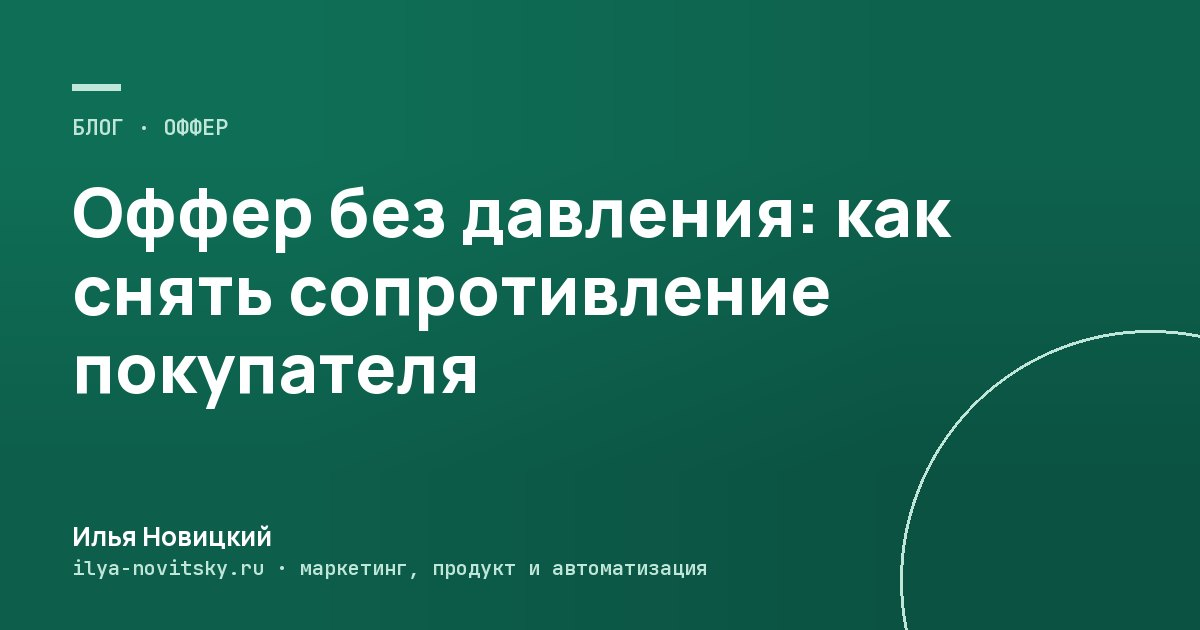
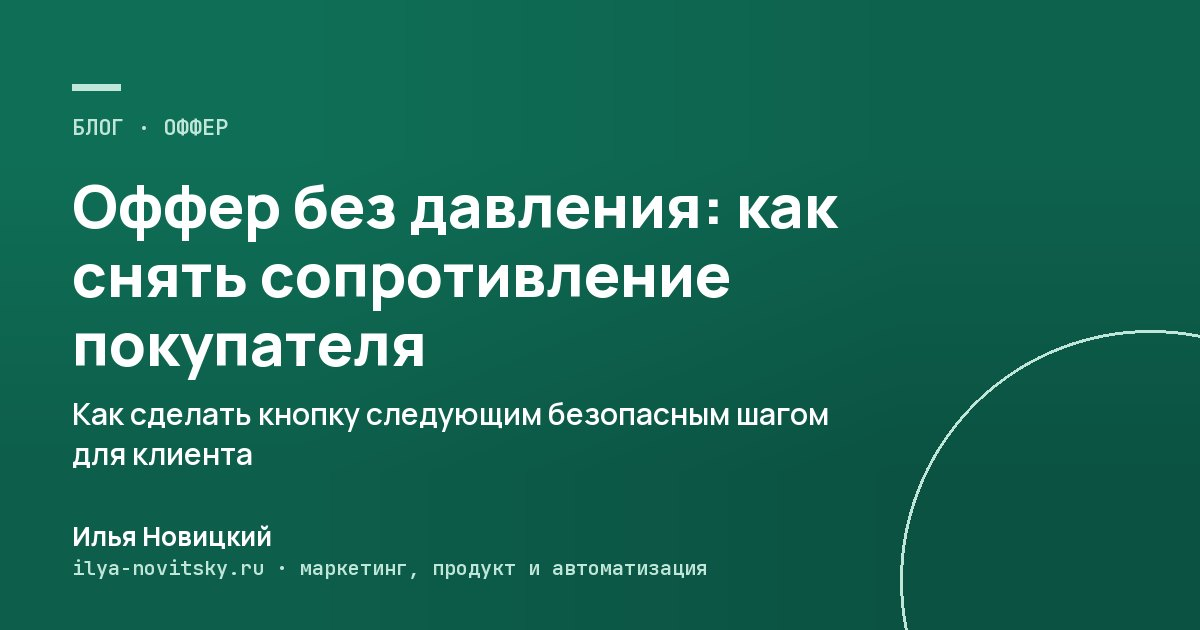
Превью: подзаголовок на каждой картинке (content/og.json), ₽ фирменным шрифтом на сайте, в книге и превью; лента первого экрана с реальными цифрами (1 001 комментарий, 631 сделка, 46 страниц, 17 млн ₽)

Changed region(s): [[0.0617, 0.2714, 0.8017, 0.754]]

diff --git a/content/pages/home.ts b/content/pages/home.ts
@@ -20,21 +20,21 @@ export const home = typo({
 		promise: "Быстрее · Дешевле · Под одну ответственность",
 		under: `Тест-драйв: ${T.price} · ${T.term} · разбор остаётся у вас`,
 		feed: {
-			label: "Пример пути: от задачи до продаж",
-			bar: "от задачи до продаж · пример пути",
+			label: "Путь от задачи до продаж на моих проектах",
+			bar: "от задачи до продаж · на моих проектах",
 			live: "результат",
 			run: "в работе",
 			done: "готово",
 			resultDone: "продажи",
 			rows: [
-				{ who: "Исследование", task: "Разбираю рынок и **боли клиентов** их же словами" },
-				{ who: "Предложение", task: "Собираю, **что продаём, кому и почём**" },
-				{ who: "Чертёж", task: "Раскладываю, **что строить** и в каком порядке, со сроками и экономикой" },
-				{ who: "Прототип", task: "**Кликабельная версия**, проверенная на живых людях" },
-				{ who: "Сборка", task: "Сайт, бот, CRM и аналитика **в одной системе**" },
-				{ who: "Результат", task: "Система работает: **идут заявки и новые продажи**", result: true },
+				{ who: "Исследование", task: "Разобрал **1 001 комментарий** аудитории → **9 главных болей** клиентов их же словами" },
+				{ who: "Предложение", task: "Поднял **631 успешную сделку** агентства → за что клиенты платят и почём" },
+				{ who: "Чертёж", task: "Свёл всё в **один план**: что строить и в каком порядке, у каждой цифры источник" },
+				{ who: "Прототип", task: "Собрал кабинет OkiDelo экран за экраном до **кликабельной версии**" },
+				{ who: "Сборка", task: "Этот сайт: **46 страниц**, блог, книга, заявки и аналитика в одной системе" },
+				{ who: "Результат", task: "Так работают системы, которые я строил: **17 млн ₽** за 8 месяцев, сеть **{{с 3 до 30}}** филиалов", result: true },
 			],
-			foot: `Тест-драйв за ${T.term}, чертёж за ${P.blueprint.term}, дальше ведение. Каждый шаг заканчивается результатом, который остаётся у вас`,
+			foot: "Исследование, предложение, план и прототип OkiDelo заняли два дня. Команде из аналитика, копирайтера, дизайнера и разработчика понадобились бы недели",
 			more: "Как мы работаем →",
 		},
 		strip: [

diff --git a/public/fonts/fonts.css b/public/fonts/fonts.css
@@ -9,3 +9,8 @@
 @font-face{font-family: 'JetBrains Mono'; font-style: normal; font-display: swap; font-weight: 600; src: url(/fonts/jetbrains-mono-latin-600-normal.woff2) format('woff2'); unicode-range: U+0000-00FF,U+0131,U+0152-0153,U+02BB-02BC,U+02C6,U+02DA,U+02DC,U+0304,U+0308,U+0329,U+2000-206F,U+20AC,U+2122,U+2191,U+2193,U+2212,U+2215,U+FEFF,U+FFFD;}
 @font-face{font-family: 'JetBrains Mono'; font-style: normal; font-display: swap; font-weight: 700; src: url(/fonts/jetbrains-mono-cyrillic-700-normal.woff2) format('woff2'); unicode-range: U+0301,U+0400-045F,U+0490-0491,U+04B0-04B1,U+2116;}
 @font-face{font-family: 'JetBrains Mono'; font-style: normal; font-display: swap; font-weight: 700; src: url(/fonts/jetbrains-mono-latin-700-normal.woff2) format('woff2'); unicode-range: U+0000-00FF,U+0131,U+0152-0153,U+02BB-02BC,U+02C6,U+02DA,U+02DC,U+0304,U+0308,U+0329,U+2000-206F,U+20AC,U+2122,U+2191,U+2193,U+2212,U+2215,U+FEFF,U+FFFD;}
+@font-face{font-family: 'Manrope'; font-style: normal; font-display: swap; font-weight: 200 800; src: url(/fonts/manrope-latin-ext-wght-normal.woff2) format('woff2-variations'); unicode-range: U+0100-02BA,U+02BD-02C5,U+02C7-02CC,U+02CE-02D7,U+02DD-02FF,U+0304,U+0308,U+0329,U+1D00-1DBF,U+1E00-1E9F,U+1EF2-1EFF,U+2020,U+20A0-20AB,U+20AD-20C0,U+2113,U+2C60-2C7F,U+A720-A7FF;}
+@font-face{font-family: 'JetBrains Mono'; font-style: normal; font-display: swap; font-weight: 400; src: url(/fonts/jetbrains-mono-latin-ext-400-normal.woff2) format('woff2'); unicode-range: U+0100-02BA,U+02BD-02C5,U+02C7-02CC,U+02CE-02D7,U+02DD-02FF,U+0304,U+0308,U+0329,U+1D00-1DBF,U+1E00-1E9F,U+1EF2-1EFF,U+2020,U+20A0-20AB,U+20AD-20C0,U+2113,U+2C60-2C7F,U+A720-A7FF;}
+@font-face{font-family: 'JetBrains Mono'; font-style: normal; font-display: swap; font-weight: 500; src: url(/fonts/jetbrains-mono-latin-ext-500-normal.woff2) format('woff2'); unicode-range: U+0100-02BA,U+02BD-02C5,U+02C7-02CC,U+02CE-02D7,U+02DD-02FF,U+0304,U+0308,U+0329,U+1D00-1DBF,U+1E00-1E9F,U+1EF2-1EFF,U+2020,U+20A0-20AB,U+20AD-20C0,U+2113,U+2C60-2C7F,U+A720-A7FF;}
+@font-face{font-family: 'JetBrains Mono'; font-style: normal; font-display: swap; font-weight: 600; src: url(/fonts/jetbrains-mono-latin-ext-600-normal.woff2) format('woff2'); unicode-range: U+0100-02BA,U+02BD-02C5,U+02C7-02CC,U+02CE-02D7,U+02DD-02FF,U+0304,U+0308,U+0329,U+1D00-1DBF,U+1E00-1E9F,U+1EF2-1EFF,U+2020,U+20A0-20AB,U+20AD-20C0,U+2113,U+2C60-2C7F,U+A720-A7FF;}
+@font-face{font-family: 'JetBrains Mono'; font-style: normal; font-display: swap; font-weight: 700; src: url(/fonts/jetbrains-mono-latin-ext-700-normal.woff2) format('woff2'); unicode-range: U+0100-02BA,U+02BD-02C5,U+02C7-02CC,U+02CE-02D7,U+02DD-02FF,U+0304,U+0308,U+0329,U+1D00-1DBF,U+1E00-1E9F,U+1EF2-1EFF,U+2020,U+20A0-20AB,U+20AD-20C0,U+2113,U+2C60-2C7F,U+A720-A7FF;}

diff --git a/src/app/layout.tsx b/src/app/layout.tsx
@@ -11,8 +11,8 @@ import "../styles/tokens.css";
 import "../styles/base.css";
 
 // Шрифты скачиваются при сборке и отдаются с нашего сайта: без запросов к Google у посетителя.
-const manrope = Manrope({ subsets: ["latin", "cyrillic"], weight: ["400", "500", "600", "700", "800"], variable: "--font-manrope", display: "swap" });
-const mono = JetBrains_Mono({ subsets: ["latin", "cyrillic"], weight: ["400", "500", "600", "700"], variable: "--font-mono", display: "swap" });
+const manrope = Manrope({ subsets: ["latin", "latin-ext", "cyrillic"], weight: ["400", "500", "600", "700", "800"], variable: "--font-manrope", display: "swap" });
+const mono = JetBrains_Mono({ subsets: ["latin", "latin-ext", "cyrillic"], weight: ["400", "500", "600", "700"], variable: "--font-mono", display: "swap" });
 
 export const metadata: Metadata = {
 	metadataBase: new URL(site.url),

diff --git a/scripts/og/generate_og.py b/scripts/og/generate_og.py
@@ -1,7 +1,8 @@
 # Превью для соцсетей и мессенджеров (Blueprint S7): /og/<имя>.jpg 1200×630 для каждой страницы и статьи.
-# Читает готовую сборку out/: имя картинки берётся из og:image страницы, заголовок — из og:title.
+# Читает готовую сборку out/: имя картинки берётся из og:image страницы, заголовок — из og:title,
+# подзаголовок — из content/og.json.
 # Запуск после правки заголовков: npm run build && npm run og && npm run build
-# Готовые картинки не перерисовываются (public/og/manifest.json: имя → заголовок). Проверка — scripts/check-seo.mjs.
+# Готовые картинки не перерисовываются (public/og/manifest.json: имя → заголовок и подзаголовок). Проверка — scripts/check/seo.mjs.
 import json, re, glob, html, os
 from PIL import Image, ImageDraw, ImageFont
 
@@ -20,14 +21,19 @@ def font(name, size, weight=None):
 
 def manrope(size, weight):
     return (font('@fontsource-variable/manrope/files/manrope-cyrillic-wght-normal.woff2', size, weight),
-            font('@fontsource-variable/manrope/files/manrope-latin-wght-normal.woff2', size, weight))
+            font('@fontsource-variable/manrope/files/manrope-latin-wght-normal.woff2', size, weight),
+            font('@fontsource-variable/manrope/files/manrope-latin-ext-wght-normal.woff2', size, weight))
 
 def mono(size):
     return (font('@fontsource/jetbrains-mono/files/jetbrains-mono-cyrillic-600-normal.woff2', size),
-            font('@fontsource/jetbrains-mono/files/jetbrains-mono-latin-600-normal.woff2', size))
+            font('@fontsource/jetbrains-mono/files/jetbrains-mono-latin-600-normal.woff2', size),
+            font('@fontsource/jetbrains-mono/files/jetbrains-mono-latin-ext-600-normal.woff2', size))
 
 def pick(fonts, ch):
-    return fonts[0] if 'Ѐ' <= ch <= 'ӿ' else fonts[1]
+    # кириллица · знаки валют (₽ есть только в latin-ext) · остальное
+    if 0x0400 <= ord(ch) <= 0x04FF: return fonts[0]
+    if 0x20A0 <= ord(ch) <= 0x20C0: return fonts[2]
+    return fonts[1]
 
 def width(s, fonts):
     return sum(pick(fonts, ch).getlength(ch) for ch in s)
@@ -44,6 +50,7 @@ def wrap(s, fonts, maxw):
         else: lines.append(cur); cur = w
     return lines + [cur]
 
+SUBS = json.load(open(f'{ROOT}/content/og.json', encoding='utf-8'))
 PHOTO = Image.open(f'{ROOT}/public/images/site/ilya-main.jpg').convert('RGB')
 
 # Статьи — в цвете своей обложки из блога (порядок и темы — src/config/blog.ts, цвета — .c-* в base.css).
@@ -64,12 +71,18 @@ def gradient(c1, c2):
     mask = Image.new('L', (2, 2)); mask.putdata([0, 110, 145, 255])  # плавно из левого верхнего угла в правый нижний
     return Image.composite(b, a, mask.resize((W, H), Image.BILINEAR))
 
-def title_block(d, x, y, title, maxw, color, sizes=(68, 62, 56, 50, 44), lines_max=4):
+def title_block(d, x, y, title, sub, maxw, color, subcolor, room, sizes=(68, 62, 56, 50, 44)):
+    # заголовок + подзаголовок; подбираем размер, чтобы всё влезло в room пикселей по высоте
     for size in sizes:
         f = manrope(size, 800); lines = wrap(title, f, maxw)
-        if len(lines) <= lines_max: break
+        ss = max(28, int(size * 0.5)); sf = manrope(ss, 600); slines = wrap(sub, sf, maxw) if sub else []
+        h = len(lines) * int(size * 1.16) + (22 + len(slines) * int(ss * 1.35) if slines else 0)
+        if h <= room and len(slines) <= 2: break
     for ln in lines:
         draw(d, x, y, ln, f, color); y += int(size * 1.16)
+    y += 22
+    for ln in slines:
+        draw(d, x, y, ln, sf, subcolor); y += int(ss * 1.35)
 
 def render(name, title):
     x = 72
@@ -77,9 +90,10 @@ def render(name, title):
         tag, cover = ARTICLE[name[5:]]; c1, c2, ink, acc = THEMES[cover]
         im = gradient(c1, c2); d = ImageDraw.Draw(im)
         d.ellipse((W - 300, H - 300, W + 200, H + 200), outline=acc, width=3)  # круг, как на обложке в блоге
-        kick, maxw, sub = f'БЛОГ · {tag.upper()}', W - 2 * x - 120, acc
+        kick, maxw, sub = f'БЛОГ · {tag.upper()}', W - 2 * x - 290, acc  # текст не заходит на круг
+        subtle = ink
     else:
-        im = Image.new('RGB', (W, H), '#ffffff'); d = ImageDraw.Draw(im); ink, sub = INK, INK2; acc = ACC
+        im = Image.new('RGB', (W, H), '#ffffff'); d = ImageDraw.Draw(im); ink, sub = INK, INK2; acc = ACC; subtle = INK2
         if name == 'home':  # главная — о человеке, поэтому с фото
             pw = 380; k = max(pw / PHOTO.width, H / PHOTO.height)
             ph = PHOTO.resize((round(PHOTO.width * k), round(PHOTO.height * k)), Image.LANCZOS)
@@ -91,7 +105,7 @@ def render(name, title):
         kick = SECTION.get(name, 'Илья Новицкий').upper()
     d.rectangle((x, 84, x + 48, 90), fill=acc)
     draw(d, x, 112, kick, mono(22), acc)
-    title_block(d, x, 164, title, maxw, ink, sizes=(58, 54, 50) if name == 'home' else (68, 62, 56, 50, 44), lines_max=3 if name == 'home' else 4)
+    title_block(d, x, 164, title, SUBS.get(name, ''), maxw, ink, subtle, room=H - 164 - 140, sizes=(56, 52, 48, 44, 40) if name == 'home' else (66, 60, 54, 50, 44, 40))
     draw(d, x, H - 112, 'Илья Новицкий', manrope(26, 700), ink)
     draw(d, x, H - 76, 'ilya-novitsky.ru · маркетинг, продукт и автоматизация', mono(20), sub)
     im.save(f'{DST}/{name}.jpg', 'JPEG', quality=86, optimize=True)
@@ -108,8 +122,9 @@ for f in sorted(glob.glob(f'{OUT}/**/*.html', recursive=True)):
     name, title = img.group(1), html.unescape(ttl.group(1))
     if name in seen: continue
     seen.add(name)
-    if man.get(name) == title and os.path.exists(f'{DST}/{name}.jpg'): continue
-    render(name, title); man[name] = title; made += 1
+    want = {'title': title, 'sub': SUBS.get(name, '')}
+    if man.get(name) == want and os.path.exists(f'{DST}/{name}.jpg'): continue
+    render(name, title); man[name] = want; made += 1
 for name in list(man):
     if name not in seen:
         man.pop(name); p = f'{DST}/{name}.jpg'
